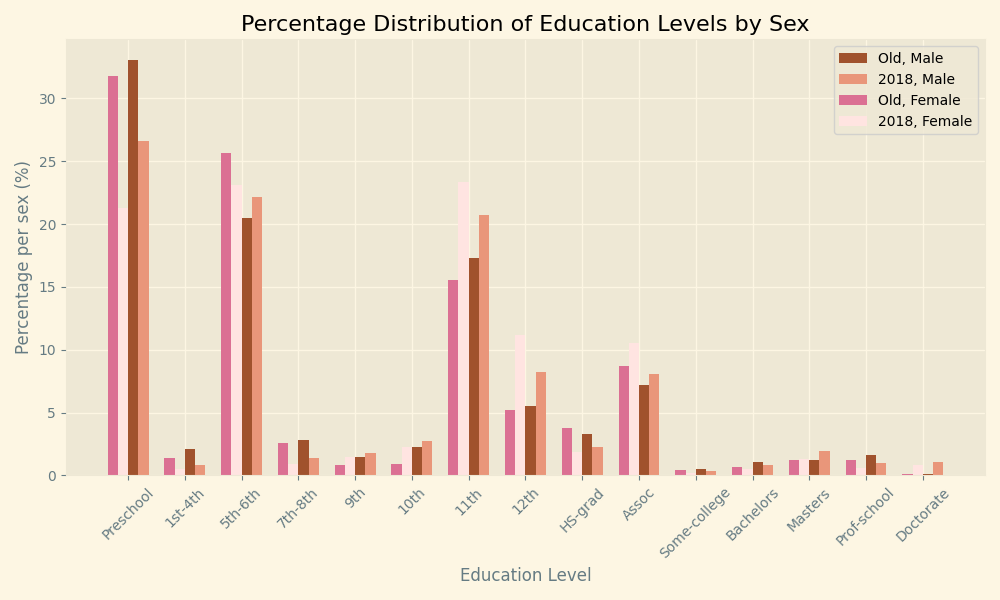
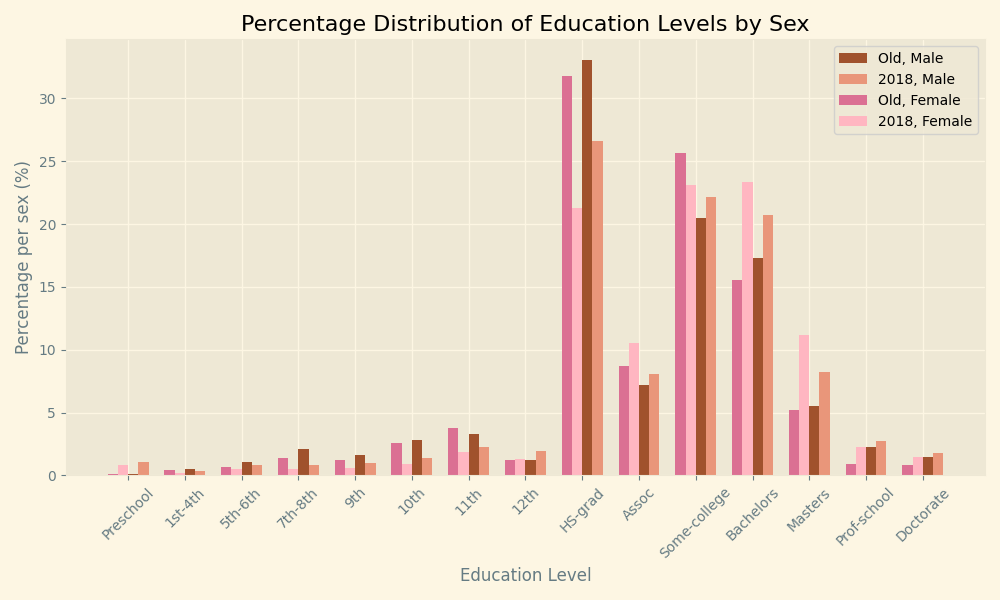
grafiekies af

Changed region(s): [[0.093, 0.09, 0.961, 0.81], [0.837, 0.18, 0.868, 0.21]]

diff --git a/Processed_data/New Data Analysis.py b/Processed_data/New Data Analysis.py
@@ -305,13 +305,13 @@ high_income_associate_degree_male_old = 100 * education_sex_income_old[15]/(educ
 
 education_sex_old = adult_old[['education', 'sex']].value_counts()
 print(education_sex_old)
-values_educ_old = {"Male": {}, "Female": {}}
+values_educ_old = {"Male": {'Preschool':0, '1st-4th':0, '5th-6th':0,'7th-8th':0, '9th':0, '10th':0 ,'11th':0,'12th':0, 'HS-grad':0,'Assoc':0, 'Some-college':0,  'Bachelors':0,'Masters':0,'Prof-school':0, 'Doctorate':0}, "Female": {'Preschool':0, '1st-4th':0, '5th-6th':0,'7th-8th':0, '9th':0, '10th':0 ,'11th':0,'12th':0, 'HS-grad':0,'Assoc':0, 'Some-college':0,  'Bachelors':0,'Masters':0,'Prof-school':0, 'Doctorate':0}}
 for sex in adult_old["sex"].unique():
     total = sum(education_sex_old[:,sex])
     for edu in adult_old["education"].unique():
         values_educ_old[sex][edu] = 100* education_sex_old[edu][sex]/(total)
 
-values_educ_reconstructed = {"Male": {}, "Female": {}}
+values_educ_reconstructed = {"Male": {'Preschool':0, '1st-4th':0, '5th-6th':0,'7th-8th':0, '9th':0, '10th':0 ,'11th':0,'12th':0, 'HS-grad':0,'Assoc':0, 'Some-college':0,  'Bachelors':0,'Masters':0,'Prof-school':0, 'Doctorate':0}, "Female": {'Preschool':0, '1st-4th':0, '5th-6th':0,'7th-8th':0, '9th':0, '10th':0 ,'11th':0,'12th':0, 'HS-grad':0,'Assoc':0, 'Some-college':0,  'Bachelors':0,'Masters':0,'Prof-school':0, 'Doctorate':0}}
 for sex in adult_reconstructed["sex"].unique():
     total = sum(education_sex_reconstructed[:,sex])
     for edu in adult_old["education"].unique():
@@ -356,9 +356,9 @@ import os
 bar_width = 0.18
 
 style.use("Solarize_Light2")
+#['Preschool', '1st-4th', '5th-6th','7th-8th', '9th', '10th' ,'11th','12th', 'HS-grad','Assoc', 'Some-college',  'Bachelors','Masters','Prof-school', 'Doctorate']
 values_male = [value for _, value in values_educ_old['Male'].items() ]
-labels_male = ['Preschool', '1st-4th', '5th-6th','7th-8th', '9th', '10th' ,'11th','12th', 'HS-grad','Assoc', 'Some-college',  'Bachelors','Masters','Prof-school', 'Doctorate']
-#labels_male = [value for value,_ in values_educ_old['Male'].items() ]
+labels_male = [value for value,_ in values_educ_old['Male'].items() ]
 values_female = [value for _, value in values_educ_old['Female'].items() ]
 values_male_new = [value for _, value in values_educ_reconstructed['Male'].items() ]
 values_female_new = [value for _, value in values_educ_reconstructed['Female'].items() ]
@@ -370,7 +370,7 @@ plt.bar(index + bar_width/2, values_male, bar_width, label='Old, Male', color='s
 
 plt.bar(index + bar_width /2 + bar_width, values_male_new, bar_width, label='2018, Male', color='darksalmon')
 plt.bar(index - bar_width/2 -bar_width, values_female, bar_width, label='Old, Female', color='palevioletred')
-plt.bar(index - bar_width/2, values_female_new , bar_width, label='2018, Female', color='mistyrose')
+plt.bar(index - bar_width/2, values_female_new , bar_width, label='2018, Female', color='lightpink')
 
 # Add title and labels
 plt.title('Percentage Distribution of Education Levels by Sex')
@@ -386,8 +386,7 @@ plt.show()
 
 #marital status
 values_male = [value for _, value in values_mar_old['Male'].items() ]
-labels_male = ["Never-married", "Married", "Separated", "Divorced", "Widowed"]
-#labels_male = [value for value,_ in values_educ_old['Male'].items() ]
+labels_male = [value for value,_ in values_mar_old['Male'].items() ]
 values_female = [value for _, value in values_mar_old['Female'].items() ]
 values_male_new = [value for _, value in values_mar_reconstructed['Male'].items() ]
 values_female_new = [value for _, value in values_mar_reconstructed['Female'].items() ]
@@ -399,7 +398,7 @@ plt.bar(index + bar_width/2, values_male, bar_width, label='Old, Male', color='s
 
 plt.bar(index + bar_width /2 + bar_width, values_male_new, bar_width, label='2018, Male', color='darksalmon')
 plt.bar(index - bar_width/2 -bar_width, values_female, bar_width, label='Old, Female', color='palevioletred')
-plt.bar(index - bar_width/2, values_female_new , bar_width, label='2018, Female', color='mistyrose')
+plt.bar(index - bar_width/2, values_female_new , bar_width, label='2018, Female', color='lightpink')
 
 # Add title and labels
 plt.title('Percentage Distribution of marital status by Sex')
